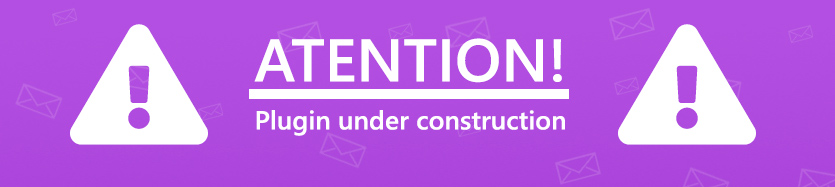
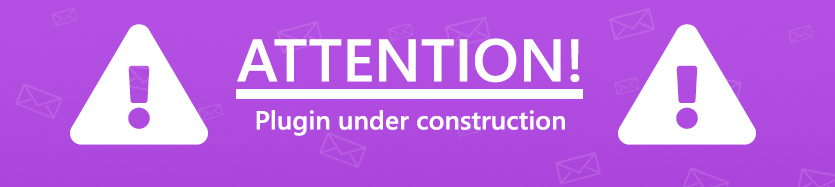
Updating android to receive traditional FCM notifications

Changed region(s): [[0.2802, 0.1872, 0.7162, 0.4545], [0.6539, 0.4813, 0.7162, 0.5348], [0.2802, 0.4813, 0.3114, 0.5348]]

diff --git a/android/src/main/java/me/carda/awesome_notifications/services/firebase/FCMService.java b/android/src/main/java/me/carda/awesome_notifications/services/firebase/FCMService.java
@@ -12,15 +12,22 @@ import java.lang.reflect.Type;
 import java.util.HashMap;
 import java.util.List;
 import java.util.Map;
+import java.util.Random;
 
 import androidx.localbroadcastmanager.content.LocalBroadcastManager;
 import me.carda.awesome_notifications.BroadcastSender;
 import me.carda.awesome_notifications.notifications.PushNotification;
+import me.carda.awesome_notifications.notifications.enumeratos.NotificationLayout;
 import me.carda.awesome_notifications.notifications.enumeratos.NotificationSource;
 import me.carda.awesome_notifications.notifications.NotificationSender;
 import me.carda.awesome_notifications.Definitions;
+import me.carda.awesome_notifications.notifications.managers.ChannelManager;
+import me.carda.awesome_notifications.notifications.models.NotificationChannelModel;
+import me.carda.awesome_notifications.notifications.models.NotificationContentModel;
+import me.carda.awesome_notifications.utils.JsonUtils;
 import me.carda.awesome_notifications.utils.ListUtils;
 import me.carda.awesome_notifications.utils.MapUtils;
+import me.carda.awesome_notifications.utils.StringUtils;
 
 
 class FCMParserException extends Exception {
@@ -45,6 +52,98 @@ public class FCMService extends FirebaseMessagingService {
     public void onNewToken(String token) {
         BroadcastSender.SendBroadcastNewFcmToken(applicationContext, token);
     }
+
+    @Override
+    public void onMessageSent(String s) {
+        super.onMessageSent(s);
+        Log.d(TAG, "onMessageSent: upstream message");
+    }
+
+    private void printIntentExtras(Intent intent){
+        Bundle bundle;
+        if ((bundle = intent.getExtras()) != null) {
+            for (String key : bundle.keySet()) {
+                System.out.println(key + " : " + (bundle.get(key) != null ? bundle.get(key) : "NULL"));
+            }
+        }
+    }
+
+    @Override
+    public void handleIntent(Intent intent){
+
+        if(intent.hasExtra("google.message_id")){
+            intent = handleFirebaseIntent(intent);
+        }
+
+        super.handleIntent(intent);
+    }
+
+    // Thank you Google, for that brilliant idea to treat notification message and notification data
+    // differently on Android, depending of what app life cycle is. Because of that, all the developers
+    // are doing "workarounds", using data to send push notifications, and that's not what you planned for.
+    // Let the developers decide what to do on their apps and ALWAYS deliver the notification
+    // to "onMessageReceived" method. Its simple, is freedom and its what the creative ones need.
+    private Intent handleFirebaseIntent(Intent intent){
+
+        //printIntentExtras(intent);
+
+        String FCM_TITLE_KEY = "gcm.notification.title";
+        String FCM_BODY_KEY = "gcm.notification.body";
+        String FCM_IMAGE_KEY = "gcm.notification.image";
+
+        String title = intent.getStringExtra(FCM_TITLE_KEY);
+        String body = intent.getStringExtra(FCM_BODY_KEY);
+        String image = intent.getStringExtra(FCM_IMAGE_KEY);
+
+        // Remove the key extras that identifies an Notification type message
+        Bundle bundle = intent.getExtras();
+        if (bundle != null) {
+            for (String key : bundle.keySet()) {
+                if (key.startsWith("gcm.notification.") || key.startsWith("gcm.n."))
+                {
+                    intent.removeExtra(key);
+                }
+            }
+        }
+
+        Boolean isTitleEmpty = StringUtils.isNullOrEmpty(title);
+        Boolean isBodyEmpty = StringUtils.isNullOrEmpty(body);
+        Boolean isImageEmpty = StringUtils.isNullOrEmpty(image);
+
+        // Notification title and body has prevalence over Data title and body
+        if(
+            !isTitleEmpty || !isBodyEmpty || !isImageEmpty
+        ){
+            String contentData = intent.getStringExtra(Definitions.PUSH_NOTIFICATION_CONTENT);
+
+            Map<String, Object> content;
+            if(StringUtils.isNullOrEmpty(contentData)){
+
+                content = new HashMap<String, Object>();
+
+                content.put(Definitions.NOTIFICATION_ID, new Random().nextInt(65536) - 32768);
+                content.put(Definitions.NOTIFICATION_CHANNEL_KEY, "basic_channel" );
+
+            } else {
+                content = JsonUtils.fromJson(new TypeToken<Map<String, Object>>(){}.getType(),contentData);
+            }
+
+            if(!isTitleEmpty) content.put(Definitions.NOTIFICATION_TITLE, title);
+            if(!isBodyEmpty) content.put(Definitions.NOTIFICATION_BODY, body);
+            if(!isImageEmpty){
+                content.put(Definitions.NOTIFICATION_BIG_PICTURE, image);
+                content.put(Definitions.NOTIFICATION_LAYOUT, NotificationLayout.BigPicture.toString());
+            }
+
+            contentData = JsonUtils.toJson(content);
+            intent.putExtra(Definitions.PUSH_NOTIFICATION_CONTENT, contentData);
+        }
+
+        //printIntentExtras(intent);
+
+        return intent;
+    }
+
 
     /**
      * Called when message is received.

diff --git a/android/src/main/java/me/carda/awesome_notifications/utils/StringUtils.java b/android/src/main/java/me/carda/awesome_notifications/utils/StringUtils.java
@@ -2,7 +2,7 @@ package me.carda.awesome_notifications.utils;
 
 public class StringUtils {
     public static Boolean isNullOrEmpty(String string){
-        return string == null || string.isEmpty();
+        return string == null || string.trim().isEmpty();
     }
     public static String getValueOrDefault(String value, String defaultValue){
         return isNullOrEmpty(value) ? defaultValue : value;

diff --git a/README.md b/README.md
@@ -18,7 +18,7 @@
 - Notifications could be **scheduled** repeatedly using a list or precise dates or even **Cron rules**, such linux does, with seconds precision.
 <br>
 
-*Some **android** notification examples:*
+*Some **Android** notification examples:*
 ![](https://raw.githubusercontent.com/rafaelsetragni/awesome_notifications/master/example/assets/readme/awesome-notifications-android-examples.jpg)
 <br>
 
@@ -41,7 +41,7 @@ All notifications could be created locally or via Firebase services, with all th
 
 <br>
 
-## ATENTION - PLUGIN UNDER CONSTRUCTION
+## ATTENTION - PLUGIN UNDER CONSTRUCTION
 
 ![](https://raw.githubusercontent.com/rafaelsetragni/awesome_notifications/master/example/assets/readme/awesome-notifications-atention.jpg)
 ![](https://raw.githubusercontent.com/rafaelsetragni/awesome_notifications/master/example/assets/readme/awesome-notifications-progress.jpg)
@@ -60,6 +60,7 @@ All notifications could be created locally or via Firebase services, with all th
 - Include support for another push notification services (Wonderpush, One Signal, IBM, AWS, Azure, etc)
 - Video layout for notifications
 - Carousel layout for notifications
+- Add support for animated gif files in Big Picture layout for notifications
 - Increase the tolerance in the json deserialization process, to accept different types and convert them to the expected.
 <br>
 
@@ -97,6 +98,8 @@ import 'package:awesome_notifications/awesome_notifications.dart';
 
 ```dart
 AwesomeNotifications().initialize(
+    // Set it to null to use your default app icon, in case you haven't
+    // already pasted your personalized icon into your project
     'resource://drawable/app_icon',
     [
         NotificationChannel(
@@ -427,10 +430,18 @@ Due to limitations on Notification body, you should use only the data field as b
 
 OBS: `actionButtons` and `schedule` are **optional**
 
+OBS 2: You **MUST** send `notification` field to push notifications work correctly on all platforms.
+Send the `title` empty (with a single space " ") and the `title` and `body` filled inside `data` field, as the example bellow, is more performative than do the traditional one. But both ways work, and the notification data has precedence over the data fields.
+
+OBS 3: `mutable_content` is necessary to activate all layouts in iOS devices.
+
 ```json
 {
     "to" : "[YOUR APP TOKEN]",
-    "collapse_key" : "type_a",
+    "mutable_content" : true,
+    "notification": {
+        "title": " "
+    },
     "data" : {
         "content": {
             "id": 100,
